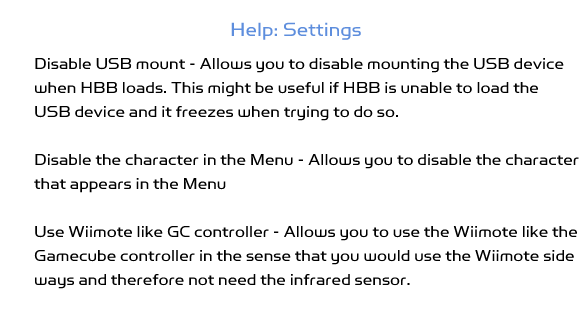
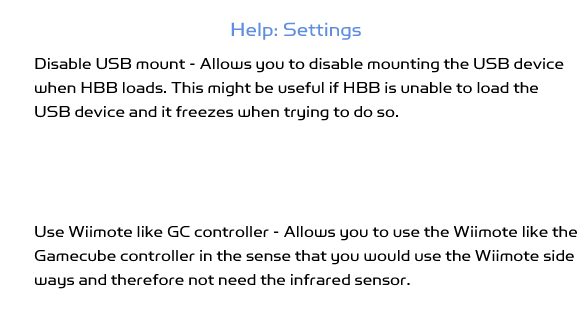
No more of the weird character guy! :D

Changed region(s): [[0.0616, 0.4842, 0.9863, 0.5411], [0.0616, 0.5696, 0.4007, 0.5981]]

diff --git a/source/main.c b/source/main.c
@@ -523,7 +523,6 @@ int main(int argc, char **argv) {
 	void *str_setting_cat = GRRLIB_TextToTexture("Custom category", FONTSIZE_SMALL1, 0x575757);
 	void *str_setting_sort = GRRLIB_TextToTexture("Custom sort", FONTSIZE_SMALL1, 0x575757);
 	void *str_setting_disusb = GRRLIB_TextToTexture("Disable USB mount", FONTSIZE_SMALL1, 0x575757);
-	void *str_setting_dischar = GRRLIB_TextToTexture("Disable character", FONTSIZE_SMALL1, 0x575757);
 	void *str_setting_wiiside = GRRLIB_TextToTexture("Use Wiimote sideways", FONTSIZE_SMALL1, 0x575757);
 	void *str_setting_update = GRRLIB_TextToTexture("Check for updates", FONTSIZE_SMALL1, 0x575757);
 	void *str_setting_server = GRRLIB_TextToTexture("Use secondary server", FONTSIZE_SMALL1, 0x575757);
@@ -546,11 +545,10 @@ int main(int argc, char **argv) {
 	void *str_page1o3 = GRRLIB_TextToTexture("Page 1 / 3", FONTSIZE_SMALLER, 0x666768);
 	void *str_page2o3 = GRRLIB_TextToTexture("Page 2 / 3", FONTSIZE_SMALLER, 0x666768);
 	void *str_page3o3 = GRRLIB_TextToTexture("Page 3 / 3", FONTSIZE_SMALLER, 0x666768);
-	void *str_page1o5 = GRRLIB_TextToTexture("Page 1 / 5", FONTSIZE_SMALLER, 0x666768);
-	void *str_page2o5 = GRRLIB_TextToTexture("Page 2 / 5", FONTSIZE_SMALLER, 0x666768);
-	void *str_page3o5 = GRRLIB_TextToTexture("Page 3 / 5", FONTSIZE_SMALLER, 0x666768);
-	void *str_page4o5 = GRRLIB_TextToTexture("Page 4 / 5", FONTSIZE_SMALLER, 0x666768);
-	void *str_page5o5 = GRRLIB_TextToTexture("Page 5 / 5", FONTSIZE_SMALLER, 0x666768);
+	void *str_page1o4 = GRRLIB_TextToTexture("Page 1 / 4", FONTSIZE_SMALLER, 0x666768);
+	void *str_page2o4 = GRRLIB_TextToTexture("Page 2 / 4", FONTSIZE_SMALLER, 0x666768);
+	void *str_page3o4 = GRRLIB_TextToTexture("Page 3 / 4", FONTSIZE_SMALLER, 0x666768);
+	void *str_page4o4 = GRRLIB_TextToTexture("Page 4 / 4", FONTSIZE_SMALLER, 0x666768);
 	void *str_page1o7 = GRRLIB_TextToTexture("Page 1 / 7", FONTSIZE_SMALLER, 0x666768);
 	void *str_page2o7 = GRRLIB_TextToTexture("Page 2 / 7", FONTSIZE_SMALLER, 0x666768);
 	void *str_page3o7 = GRRLIB_TextToTexture("Page 3 / 7", FONTSIZE_SMALLER, 0x666768);
@@ -579,7 +577,7 @@ int main(int argc, char **argv) {
 	void *str_sort_3 = GRRLIB_TextToTexture("Rating", FONTSIZE_SMALL1, 0x575757);
 	void *str_sort_4 = GRRLIB_TextToTexture("Downloads", FONTSIZE_SMALL1, 0x575757);
 
-	u8 *text_font1=GRRLIB_LoadTexture(GRRLIB_font1);
+	//u8 *text_font1=GRRLIB_LoadTexture(GRRLIB_font1);
 	u8 *mouse_img=GRRLIB_LoadTexture(mouse);
 
 	u8 *about_blank_img=GRRLIB_LoadTexture(about_blank);
@@ -712,7 +710,7 @@ int main(int argc, char **argv) {
 	u8 *apps_repo_img=GRRLIB_LoadTexture(apps_repo);
 	u8 *apps_start_cat_img=GRRLIB_LoadTexture(apps_start_cat);
 	u8 *apps_start_sort_img=GRRLIB_LoadTexture(apps_start_sort);
-	u8 *arrow_img=GRRLIB_LoadTexture(arrow);
+	//u8 *arrow_img=GRRLIB_LoadTexture(arrow);
 
 	u8 *icon1_img = NULL;
 	u8 *icon2_img = NULL;
@@ -3050,10 +3048,8 @@ int main(int argc, char **argv) {
 
 			if (menu_section == 0) {
 
-				if (setting_dischar == false) {
-					if (xfb_height == 480) { GRRLIB_DrawImg(0, 252, 252, 208, guy_menu_img, 0, 1, 1, 255); }
-					else { GRRLIB_DrawImg(0, 275, 252, 208, guy_menu_img, 0, 1, 1, 255); }
-				}
+				if (xfb_height == 480) { GRRLIB_DrawImg(0, 252, 252, 208, guy_menu_img, 0, 1, 1, 255); }
+				else { GRRLIB_DrawImg(0, 275, 252, 208, guy_menu_img, 0, 1, 1, 255); }
 
 				GRRLIB_DrawImg(283, 155, 240, 64, menu_settings_img, 0, 1, 1, 255);
 				if (ir.x > 267 && ir.x < 510 && ir.y > 174 && ir.y < 203) {
@@ -3160,11 +3156,6 @@ int main(int argc, char **argv) {
 						}
 					}
 
-					if (setting_dischar == false) {
-						if (xfb_height == 480) { GRRLIB_DrawImg(0, 252, 252, 208, guy_settings_img, 0, 1, 1, 255); }
-						else { GRRLIB_DrawImg(0, 275, 252, 208, guy_settings_img, 0, 1, 1, 255); }
-					}
-
 					GRRLIB_DrawImg(313, 160, 640, FONTSIZE_SMALL1*2, str_setting_card_space, 0, 1.0, 1.0, 255);
 					GRRLIB_DrawImg(304, 210, 640, FONTSIZE_SMALL1*2, str_setting_free_space, 0, 1.0, 1.0, 255);
 					GRRLIB_DrawImg(285, 260, 640, FONTSIZE_SMALL1*2, str_setting_hide_app, 0, 1.0, 1.0, 255);
@@ -3195,7 +3186,7 @@ int main(int argc, char **argv) {
 						}
 					}
 
-					GRRLIB_DrawImg(355, 418, 640, FONTSIZE_SMALLER*2, str_page1o5, 0, 1.0, 1.0, 255);
+					GRRLIB_DrawImg(355, 418, 640, FONTSIZE_SMALLER*2, str_page1o4, 0, 1.0, 1.0, 255);
 				} else if (menu_section == 2) {
 					if (ir.x > 250 && ir.x < 530 && ir.y > 146 && ir.y < 188) {
 						doRumble = true;
@@ -3236,11 +3227,6 @@ int main(int argc, char **argv) {
 							if (setting_prompt_cancel == true) { setting_prompt_cancel = false; }
 							else {setting_prompt_cancel = true; }
 						}
-					}
-
-					if (setting_dischar == false) {
-						if (xfb_height == 480) { GRRLIB_DrawImg(0, 252, 252, 208, guy_settings_img, 0, 1, 1, 255); }
-						else { GRRLIB_DrawImg(0, 275, 252, 208, guy_settings_img, 0, 1, 1, 255); }
 					}
 
 					GRRLIB_DrawImg(399, 160, 640, FONTSIZE_SMALL1*2, str_setting_rumble, 0, 1.0, 1.0, 255);
@@ -3285,7 +3271,7 @@ int main(int argc, char **argv) {
 						}
 					}
 
-					GRRLIB_DrawImg(355, 418, 640, FONTSIZE_SMALLER*2, str_page2o5, 0, 1.0, 1.0, 255);
+					GRRLIB_DrawImg(355, 418, 640, FONTSIZE_SMALLER*2, str_page2o4, 0, 1.0, 1.0, 255);
 				} else if (menu_section == 3) {
 					if (ir.x > 250 && ir.x < 530 && ir.y > 146 && ir.y < 188 && select_repo == false && select_category == false) {
 						doRumble = true;
@@ -3326,11 +3312,6 @@ int main(int argc, char **argv) {
 							select_category = true;
 							wait_a_press = 10;
 						}
-					}
-
-					if (setting_dischar == false) {
-						if (xfb_height == 480) { GRRLIB_DrawImg(0, 252, 252, 208, guy_settings_img, 0, 1, 1, 255); }
-						else { GRRLIB_DrawImg(0, 275, 252, 208, guy_settings_img, 0, 1, 1, 255); }
 					}
 
 					GRRLIB_DrawImg(292, 160, 640, FONTSIZE_SMALL1*2, str_setting_power, 0, 1.0, 1.0, 255);
@@ -3374,7 +3355,7 @@ int main(int argc, char **argv) {
 						}
 					}
 
-					GRRLIB_DrawImg(355, 418, 640, FONTSIZE_SMALLER*2, str_page3o5, 0, 1.0, 1.0, 255);
+					GRRLIB_DrawImg(355, 418, 640, FONTSIZE_SMALLER*2, str_page3o4, 0, 1.0, 1.0, 255);
 				} else if (menu_section == 4) {
 					if (ir.x > 250 && ir.x < 530 && ir.y > 146 && ir.y < 188 && select_sort == false) {
 						doRumble = true;
@@ -3396,54 +3377,46 @@ int main(int argc, char **argv) {
 						doRumble = true;
 						GRRLIB_DrawImg(104, 246, 440, 44, blue_light_small_img, 0, 1, 1, 255);
 						if (pressed & WPAD_BUTTON_A || pressed & WPAD_BUTTON_2 || pressed_gc & PAD_BUTTON_A) {
-							if (setting_dischar == true) { setting_dischar = false; }
-							else {setting_dischar = true; }
+							if (setting_wiiside == true) { setting_wiiside = false; }
+							else {setting_wiiside = true; }
 						}
 					}
 					if (ir.x > 250 && ir.x < 530 && ir.y > 296 && ir.y < 338 && select_sort == false) {
 						doRumble = true;
 						GRRLIB_DrawImg(104, 296, 440, 44, blue_light_small_img, 0, 1, 1, 255);
 						if (pressed & WPAD_BUTTON_A || pressed & WPAD_BUTTON_2 || pressed_gc & PAD_BUTTON_A) {
-							if (setting_wiiside == true) { setting_wiiside = false; }
-							else {setting_wiiside = true; }
-						}
-					}
-					if (ir.x > 250 && ir.x < 530 && ir.y > 346 && ir.y < 388 && select_sort == false) {
-						doRumble = true;
-						GRRLIB_DrawImg(104, 346, 440, 44, blue_light_small_img, 0, 1, 1, 255);
-						if (pressed & WPAD_BUTTON_A || pressed & WPAD_BUTTON_2 || pressed_gc & PAD_BUTTON_A) {
 							if (setting_update == true) { setting_update = false; }
 							else {setting_update = true; }
 						}
 					}
-
-					if (setting_dischar == false) {
-						if (xfb_height == 480) { GRRLIB_DrawImg(0, 252, 252, 208, guy_settings_img, 0, 1, 1, 255); }
-						else { GRRLIB_DrawImg(0, 275, 252, 208, guy_settings_img, 0, 1, 1, 255); }
+					if (ir.x > 250 && ir.x < 530 && ir.y > 346 && ir.y < 388) {
+						doRumble = true;
+						GRRLIB_DrawImg(104, 346, 440, 44, blue_light_small_img, 0, 1, 1, 255);
+						if (pressed & WPAD_BUTTON_A || pressed & WPAD_BUTTON_2 || pressed_gc & PAD_BUTTON_A) {
+							if (setting_server == true) { setting_server = false; }
+							else {setting_server = true; }
+						}
 					}
 
 					GRRLIB_DrawImg(351, 160, 640, FONTSIZE_SMALL1*2, str_setting_sort, 0, 1.0, 1.0, 255);
 					GRRLIB_DrawImg(282, 210, 640, FONTSIZE_SMALL1*2, str_setting_disusb, 0, 1.0, 1.0, 255);
-					GRRLIB_DrawImg(296, 260, 640, FONTSIZE_SMALL1*2, str_setting_dischar, 0, 1.0, 1.0, 255);
-					GRRLIB_DrawImg(248, 310, 640, FONTSIZE_SMALL1*2, str_setting_wiiside, 0, 1.0, 1.0, 255);
-					GRRLIB_DrawImg(286, 360, 640, FONTSIZE_SMALL1*2, str_setting_update, 0, 1.0, 1.0, 255);
+					GRRLIB_DrawImg(248, 260, 640, FONTSIZE_SMALL1*2, str_setting_wiiside, 0, 1.0, 1.0, 255);
+					GRRLIB_DrawImg(286, 310, 640, FONTSIZE_SMALL1*2, str_setting_update, 0, 1.0, 1.0, 255);
+					GRRLIB_DrawImg(258, 360, 640, FONTSIZE_SMALL1*2, str_setting_server, 0, 1.0, 1.0, 255);
 
 					if (setting_sort == 1) { GRRLIB_DrawImg(498, 148, 40, 40, setting_cross_img, 0, 1, 1, 255); }
 					else { GRRLIB_DrawImg(498, 148, 40, 40, app_tick_img, 0, 1, 1, 255); }
 					if (setting_disusb == true) { GRRLIB_DrawImg(498, 198, 40, 40, app_tick_img, 0, 1, 1, 255); }
 					else { GRRLIB_DrawImg(498, 198, 40, 40, setting_cross_img, 0, 1, 1, 255); }
-					if (setting_dischar == true) { GRRLIB_DrawImg(498, 248, 40, 40, app_tick_img, 0, 1, 1, 255); }
+					if (setting_wiiside == true) { GRRLIB_DrawImg(498, 248, 40, 40, app_tick_img, 0, 1, 1, 255); }
 					else { GRRLIB_DrawImg(498, 248, 40, 40, setting_cross_img, 0, 1, 1, 255); }
-					if (setting_wiiside == true) { GRRLIB_DrawImg(498, 298, 40, 40, app_tick_img, 0, 1, 1, 255); }
+					if (setting_update == true) { GRRLIB_DrawImg(498, 298, 40, 40, app_tick_img, 0, 1, 1, 255); }
 					else { GRRLIB_DrawImg(498, 298, 40, 40, setting_cross_img, 0, 1, 1, 255); }
-					if (setting_update == true) { GRRLIB_DrawImg(498, 348, 40, 40, app_tick_img, 0, 1, 1, 255); }
-					else { GRRLIB_DrawImg(498, 348, 40, 40, setting_cross_img, 0, 1, 1, 255); }
+					if (setting_server == false) { GRRLIB_DrawImg(498, 348, 40, 40, setting_cross_img, 0, 1, 1, 255); }
+					else { GRRLIB_DrawImg(498, 348, 40, 40, app_tick_img, 0, 1, 1, 255); }
 
 					if (((pressed & WPAD_BUTTON_MINUS) || (setting_wiiside == false && pressed & WPAD_BUTTON_LEFT) || (pressed_gc & PAD_TRIGGER_L) || (pressed_gc & PAD_BUTTON_LEFT)) && select_sort == false) {
 						menu_section = 3;
-					}
-					if (((pressed & WPAD_BUTTON_PLUS) || (setting_wiiside == false && pressed & WPAD_BUTTON_RIGHT) || (pressed_gc & PAD_TRIGGER_R) || (pressed_gc & PAD_BUTTON_RIGHT)) && select_repo == false && select_category == false) {
-						menu_section = 5;
 					}
 
 					GRRLIB_DrawImg(300, 395, 36, 44, down_clear_img, 90, 1, 1, 255);
@@ -3454,51 +3427,12 @@ int main(int argc, char **argv) {
 							menu_section = 3;
 						}
 					}
-					GRRLIB_DrawImg(452, 395, 36, 44, down_clear_img, 270, 1, 1, 255);
-					if (ir.x > 430 && ir.x < 468 && ir.y > 400 && ir.y < 430 && select_sort == false) {
-						doRumble = true;
-						GRRLIB_DrawImg(452, 395, 36, 44, down_clear_highlight_img, 270, 1, 1, 255);
-						if (pressed & WPAD_BUTTON_A || pressed & WPAD_BUTTON_2 || pressed_gc & PAD_BUTTON_A) {
-							menu_section = 5;
-						}
-					}
 
-					GRRLIB_DrawImg(355, 418, 640, FONTSIZE_SMALLER*2, str_page4o5, 0, 1.0, 1.0, 255);
-				} else if (menu_section == 5) {
-					if (ir.x > 250 && ir.x < 530 && ir.y > 146 && ir.y < 188) {
-						doRumble = true;
-						GRRLIB_DrawImg(104, 146, 440, 44, blue_light_small_img, 0, 1, 1, 255);
-						if (pressed & WPAD_BUTTON_A || pressed & WPAD_BUTTON_2 || pressed_gc & PAD_BUTTON_A) {
-							if (setting_server == true) { setting_server = false; }
-							else {setting_server = true; }
-						}
-					}
-
-					if (setting_dischar == false) {
-						if (xfb_height == 480) { GRRLIB_DrawImg(0, 252, 252, 208, guy_settings_img, 0, 1, 1, 255); }
-						else { GRRLIB_DrawImg(0, 275, 252, 208, guy_settings_img, 0, 1, 1, 255); }
-					}
-
-					GRRLIB_DrawImg(258, 160, 640, FONTSIZE_SMALL1*2, str_setting_server, 0, 1.0, 1.0, 255);
-
-					if (setting_server == false) { GRRLIB_DrawImg(498, 148, 40, 40, setting_cross_img, 0, 1, 1, 255); }
-					else { GRRLIB_DrawImg(498, 148, 40, 40, app_tick_img, 0, 1, 1, 255); }
-
-					if (((pressed & WPAD_BUTTON_MINUS) || (setting_wiiside == false && pressed & WPAD_BUTTON_LEFT) || (pressed_gc & PAD_TRIGGER_L) || (pressed_gc & PAD_BUTTON_LEFT)) && select_sort == false) {
-						menu_section = 4;
-					}
-
-					GRRLIB_DrawImg(300, 395, 36, 44, down_clear_img, 90, 1, 1, 255);
-					if (ir.x > 285 && ir.x < 322 && ir.y > 400 && ir.y < 430) {
-						doRumble = true;
-						GRRLIB_DrawImg(300, 395, 36, 44, down_clear_highlight_img, 90, 1, 1, 255);
-						if (pressed & WPAD_BUTTON_A || pressed & WPAD_BUTTON_2 || pressed_gc & PAD_BUTTON_A) {
-							menu_section = 4;
-						}
-					}
-
-					GRRLIB_DrawImg(355, 418, 640, FONTSIZE_SMALLER*2, str_page5o5, 0, 1.0, 1.0, 255);
+					GRRLIB_DrawImg(355, 418, 640, FONTSIZE_SMALLER*2, str_page4o4, 0, 1.0, 1.0, 255);
 				}
+
+				if (xfb_height == 480) { GRRLIB_DrawImg(0, 252, 252, 208, guy_settings_img, 0, 1, 1, 255); }
+				else { GRRLIB_DrawImg(0, 275, 252, 208, guy_settings_img, 0, 1, 1, 255); }
 
 				if ((pressed & WPAD_BUTTON_HOME || ((pressed & WPAD_BUTTON_B || pressed & WPAD_BUTTON_1) && select_repo == false && select_category == false) || pressed_gc & PAD_BUTTON_START || pressed_gc & PAD_BUTTON_B) && wait_a_press == 0) {
 					menu_section = 0;
